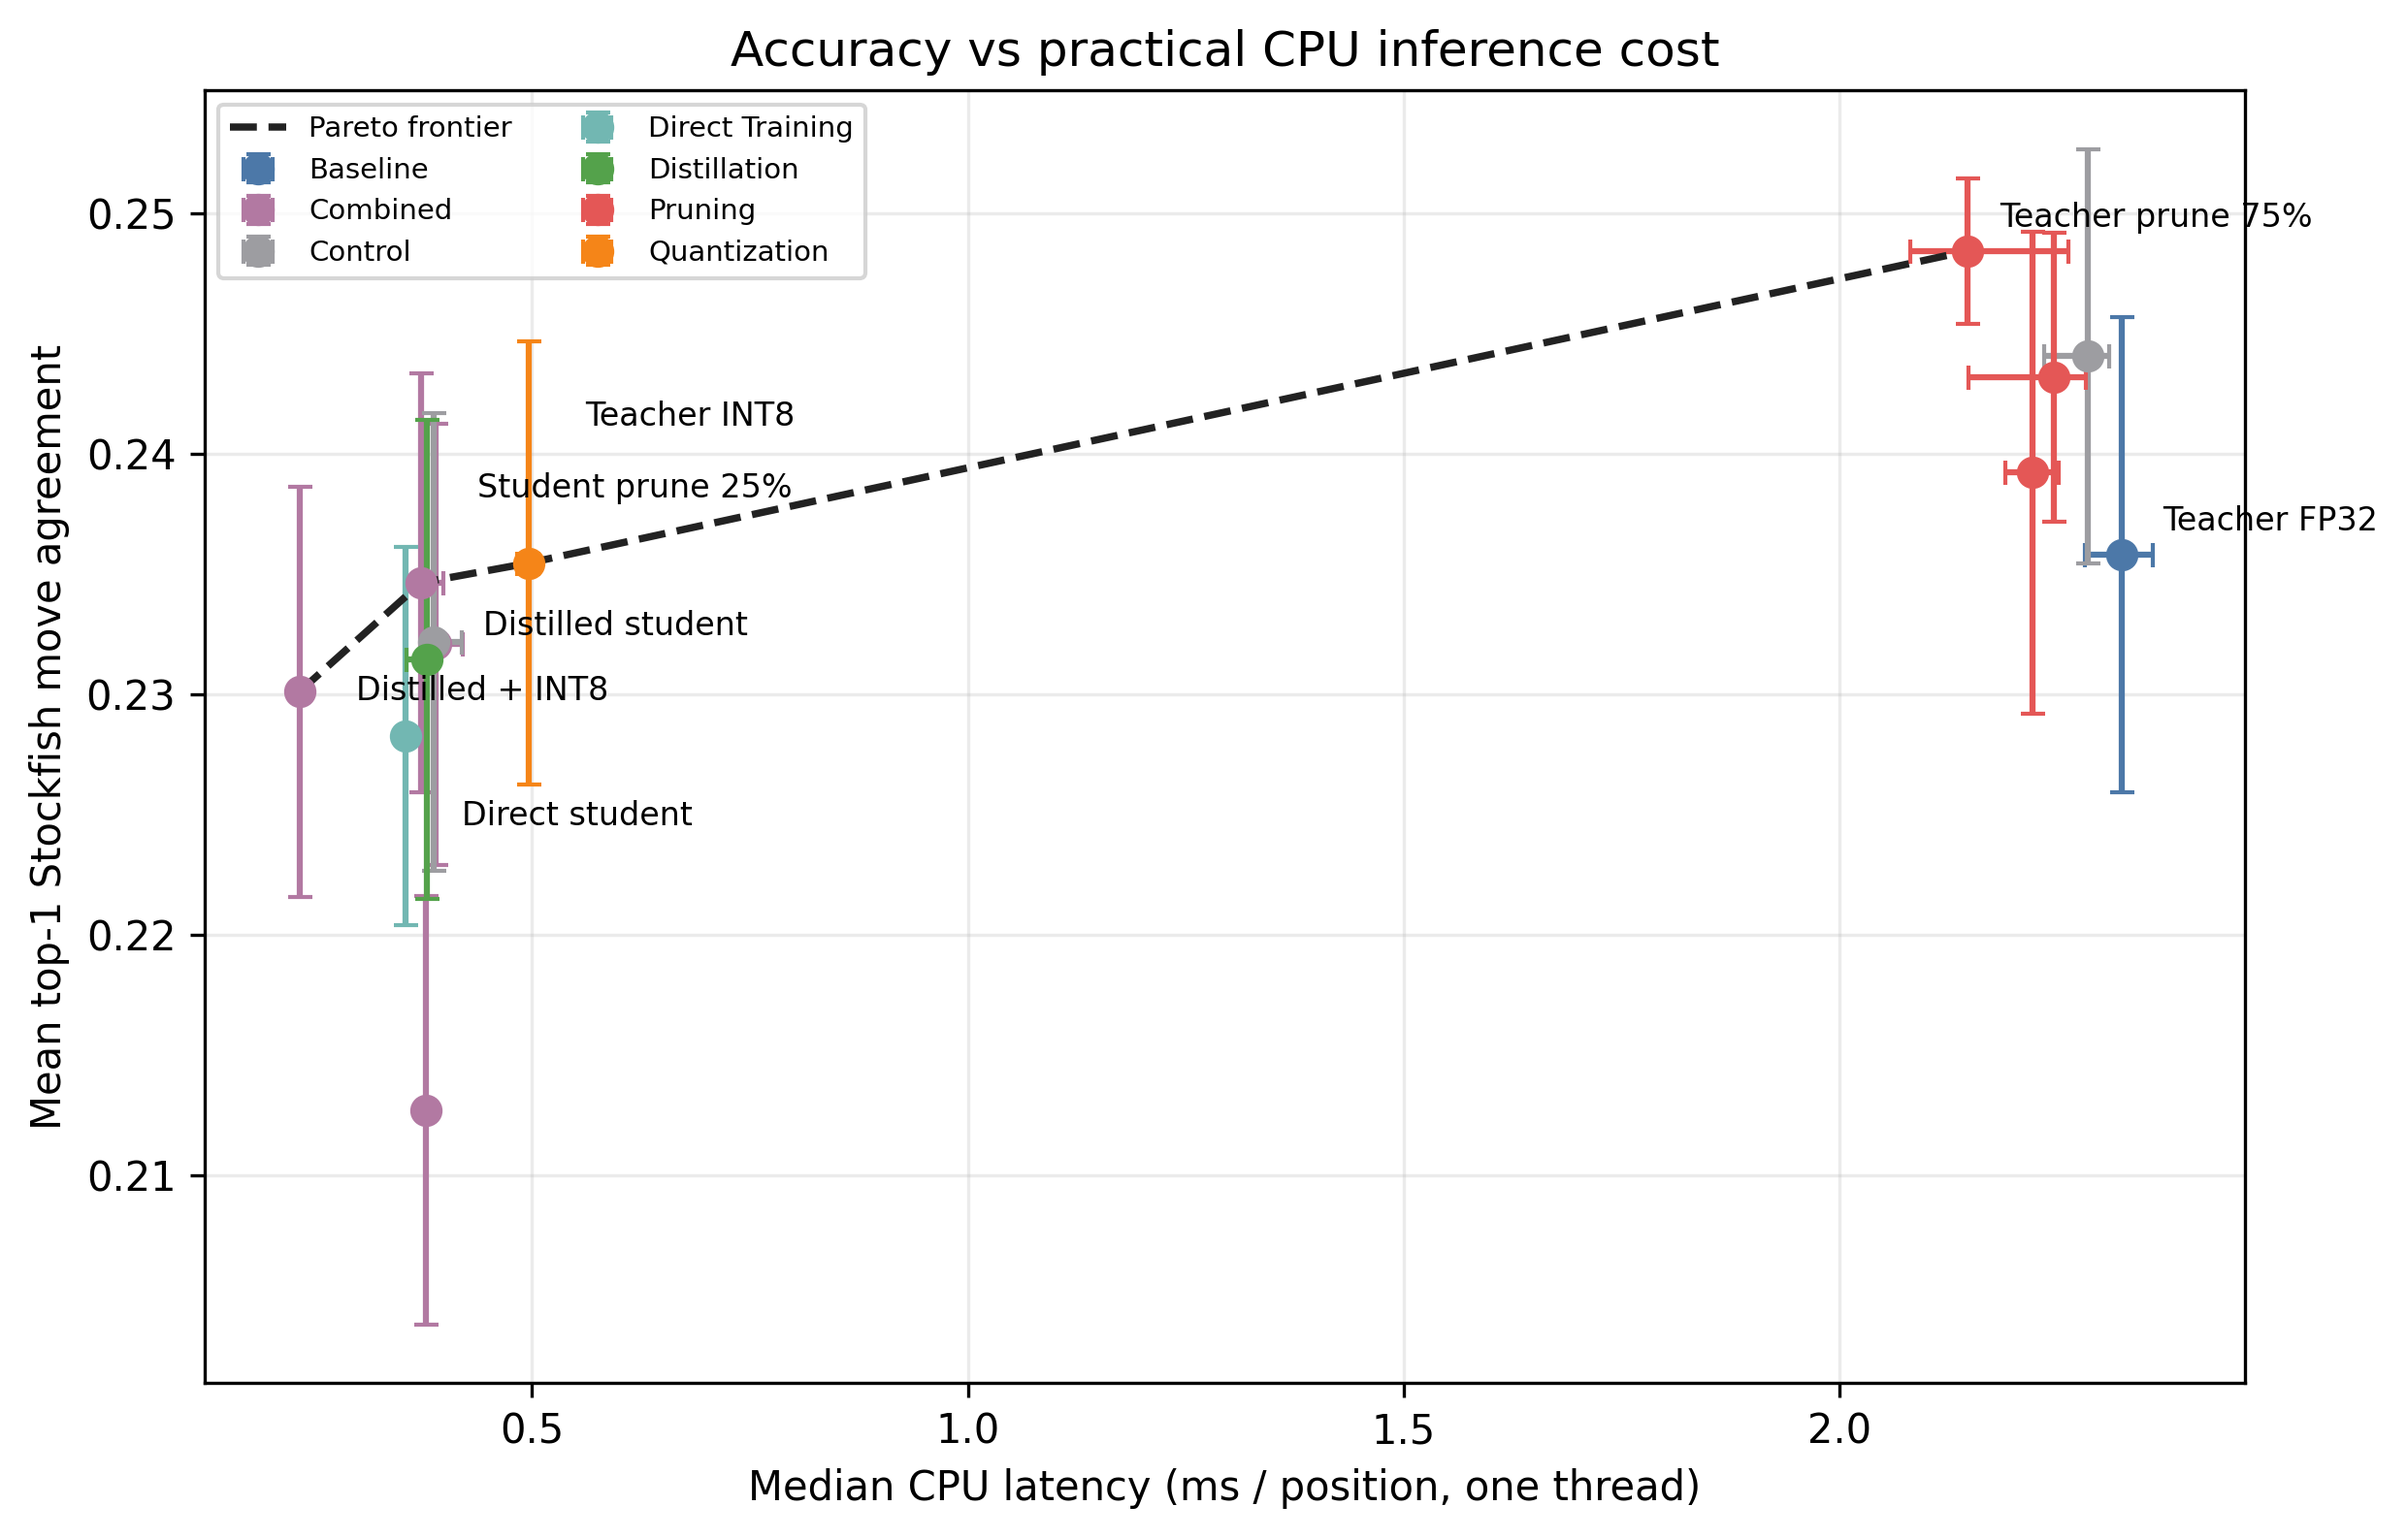
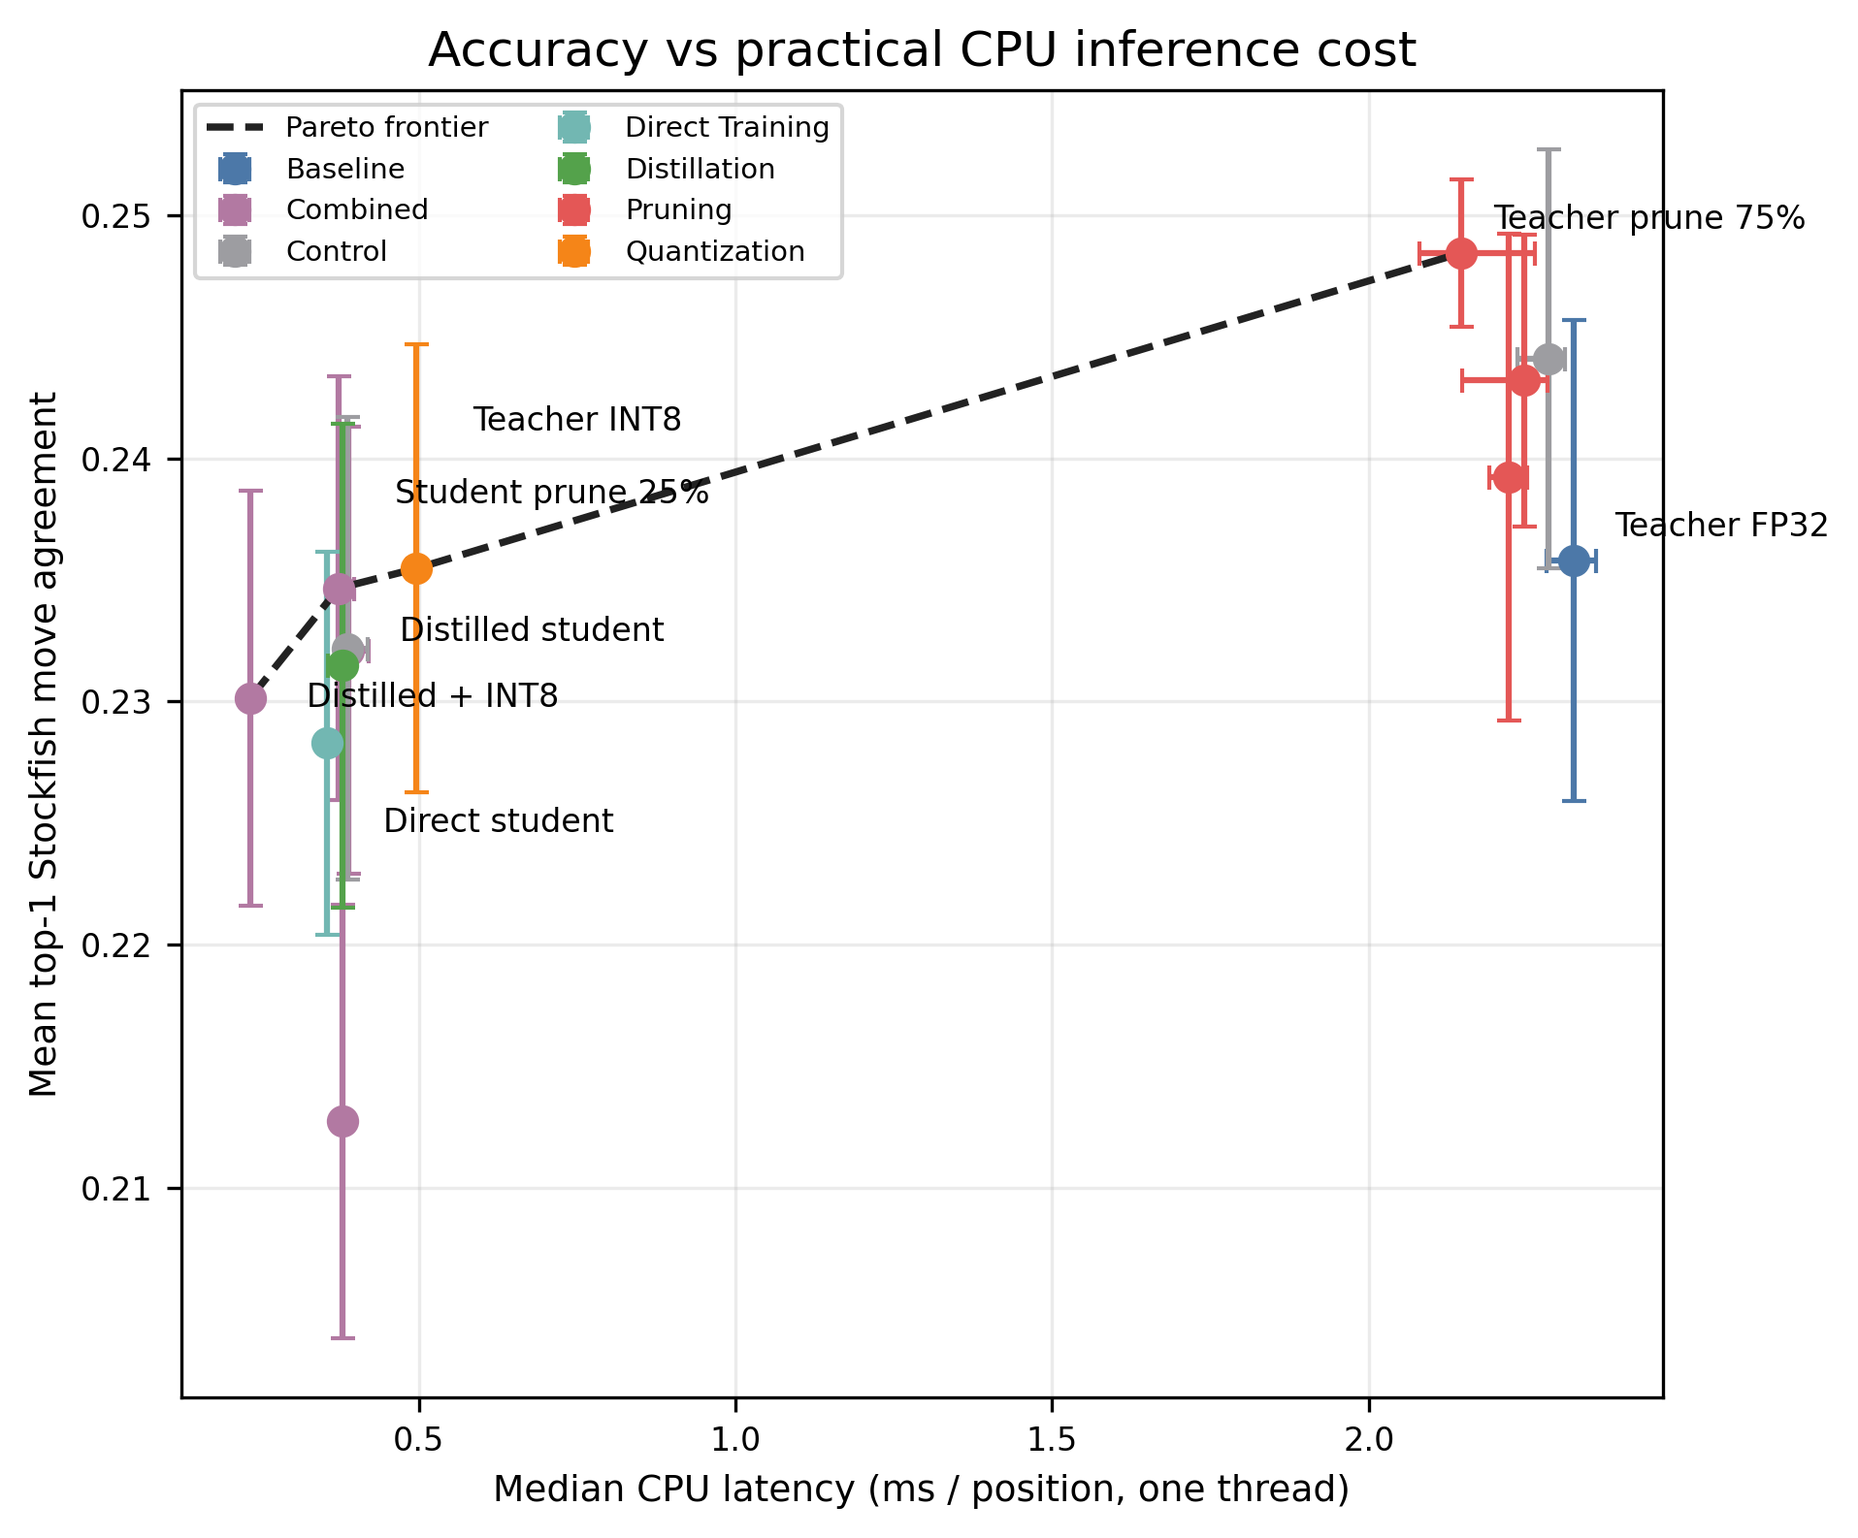
Resize poster graphs for compact layout

diff --git a/scripts/run_scaled_compression_comparison.py b/scripts/run_scaled_compression_comparison.py
@@ -329,7 +329,7 @@ def poster_assets(aggregate: pd.DataFrame, poster_dir: Path) -> dict[str, str]:
     labels = [label_for(value) for value in selected["condition"]]
     colors = ["#4c78a8", "#f58518", "#72b7b2", "#54a24b", "#b279a2"]
     y = np.arange(len(selected))
-    fig, axes = plt.subplots(1, 3, figsize=(12, 4.6), sharey=True)
+    fig, axes = plt.subplots(1, 3, figsize=(9, 5.2), sharey=True)
     panels = (
         ("top1_mean", "top1_ci95", "Top-1 agreement", lambda value: f"{100 * value:.1f}%"),
         ("actual_model_mb_mean", None, "Serialized size (MB)", lambda value: f"{value:.1f}"),
@@ -338,7 +338,8 @@ def poster_assets(aggregate: pd.DataFrame, poster_dir: Path) -> dict[str, str]:
     for axis, (column, error_column, title, formatter) in zip(axes, panels):
         errors = selected[error_column] if error_column else None
         axis.barh(y, selected[column], xerr=errors, color=colors, alpha=0.9, capsize=3)
-        axis.set_title(title)
+        axis.set_title(title, fontsize=10)
+        axis.tick_params(axis="both", labelsize=8)
         axis.grid(True, axis="x", alpha=0.25)
         maximum = float(selected[column].max())
         for index, value in enumerate(selected[column]):
@@ -347,12 +348,12 @@ def poster_assets(aggregate: pd.DataFrame, poster_dir: Path) -> dict[str, str]:
                 index,
                 formatter(float(value)),
                 va="center",
-                fontsize=9,
+                fontsize=8,
             )
         axis.set_xlim(0, maximum * 1.22)
     axes[0].set_yticks(y, labels)
     axes[0].invert_yaxis()
-    fig.suptitle("Compression methods: accuracy, storage, and speed", fontsize=16)
+    fig.suptitle("Compression methods: accuracy, storage, and speed", fontsize=13)
     fig.tight_layout()
     save_figure(fig, poster_dir / "poster_1_compression_method_comparison")
 
@@ -367,7 +368,7 @@ def poster_assets(aggregate: pd.DataFrame, poster_dir: Path) -> dict[str, str]:
         "combined": "#b279a2",
         "control": "#9d9da1",
     }
-    fig, ax = plt.subplots(figsize=(8.4, 5.4))
+    fig, ax = plt.subplots(figsize=(6.5, 5.4))
     for method, group in plot.groupby("method"):
         xerr = np.vstack(
             [
@@ -419,9 +420,10 @@ def poster_assets(aggregate: pd.DataFrame, poster_dir: Path) -> dict[str, str]:
                 textcoords="offset points",
                 fontsize=8,
             )
-    ax.set_xlabel("Median CPU latency (ms / position, one thread)")
-    ax.set_ylabel("Mean top-1 Stockfish move agreement")
-    ax.set_title("Accuracy vs practical CPU inference cost")
+    ax.set_xlabel("Median CPU latency (ms / position, one thread)", fontsize=9)
+    ax.set_ylabel("Mean top-1 Stockfish move agreement", fontsize=9)
+    ax.set_title("Accuracy vs practical CPU inference cost", fontsize=12)
+    ax.tick_params(axis="both", labelsize=8)
     ax.grid(True, alpha=0.25)
     ax.legend(fontsize=7, ncol=2)
     fig.tight_layout()
